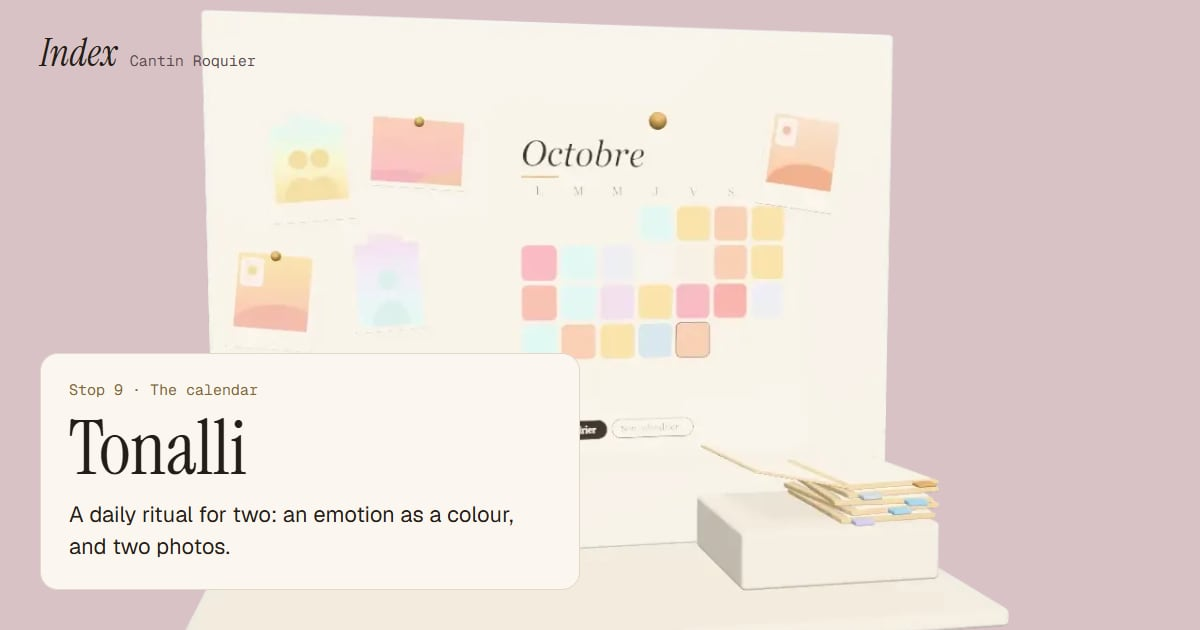
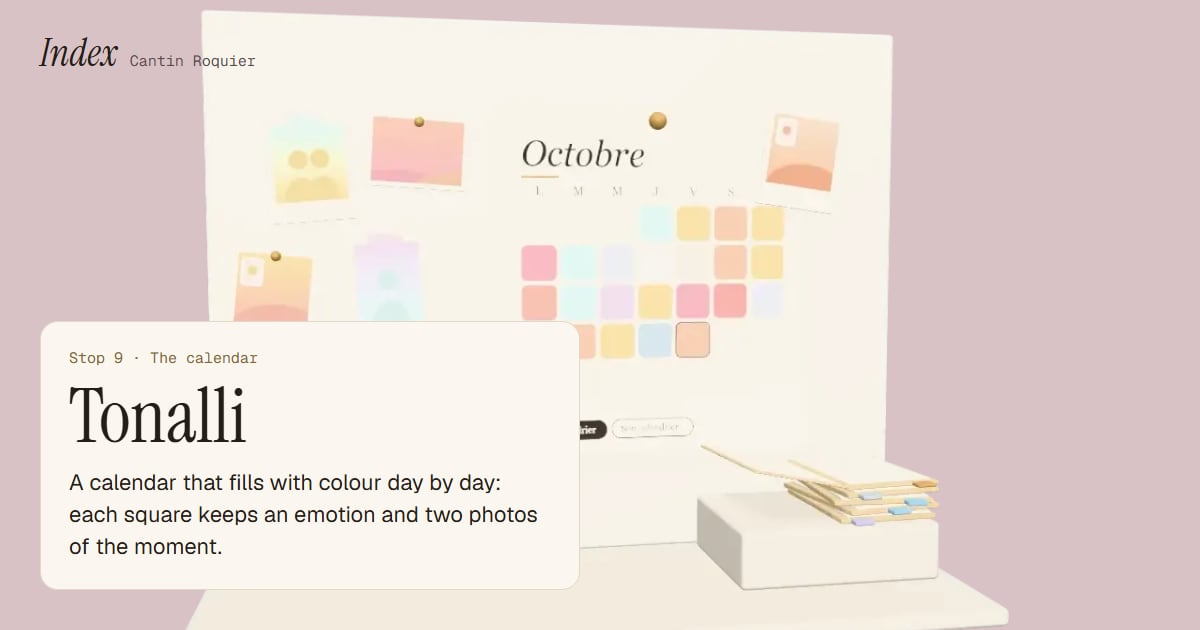
fix(portfolio): Tonalli présenté par son calendrier, plus « à deux »
« Un calendrier qui se colore jour après jour : chaque case garde une
émotion et deux photos du moment. » Le type devient « Application web ».
Ses aperçus de partage sont rephotographiés.

Changed region(s): [[0.0617, 0.6032, 0.4625, 0.9048], [0.0308, 0.5127, 0.2775, 0.573], [0.4317, 0.5127, 0.4933, 0.573]]

diff --git a/apps/portfolio/src/data/voyage.ts b/apps/portfolio/src/data/voyage.ts
@@ -121,8 +121,8 @@ export const STOP_TEXTS: Record<Lang, Record<string, StopText>> = {
     tonalli: {
       place: "Le calendrier",
       alt: "Le calendrier collé au mur : chaque jour d'octobre a sa couleur d'émotion, un jour manqué est hachuré, la case d'aujourd'hui se remplit d'une couleur après l'autre ; à gauche, les photos des journées affichées au mur ; à droite, sous le calendrier, une pile de dossiers ouverts sur un banc.",
-      kind: "Application web à deux · 2026 · En ligne",
-      pitch: "Un rituel à deux, chaque jour : une émotion en couleur et deux photos.",
+      kind: "Application web · 2026 · En ligne",
+      pitch: "Un calendrier qui se colore jour après jour : chaque case garde une émotion et deux photos du moment.",
       cta: "Ouvrir les dossiers",
     },
     index: {
@@ -196,8 +196,8 @@ export const STOP_TEXTS: Record<Lang, Record<string, StopText>> = {
     tonalli: {
       place: "The calendar",
       alt: "The calendar on the wall: each day of October has its emotion colour, a missed day is hatched, today's square fills with one colour after another; on the left, photos of the days pinned to the wall; on the right, below the calendar, a pile of open folders on a bench.",
-      kind: "Web app for two · 2026 · Live",
-      pitch: "A daily ritual for two: an emotion as a colour, and two photos.",
+      kind: "Web app · 2026 · Live",
+      pitch: "A calendar that fills with colour day by day: each square keeps an emotion and two photos of the moment.",
       cta: "Open the folders",
     },
     index: {

diff --git a/packages/projects/src/projects.ts b/packages/projects/src/projects.ts
@@ -151,7 +151,7 @@ export const PROJECTS = [
     app: "tonalli",
     host: "Vercel + Supabase",
     pitch: {
-      fr: "Un rituel quotidien à deux : une émotion en couleur et deux photos, puis le calendrier de l'autre se dévoile.",
+      fr: "Un calendrier qui se colore jour après jour : chaque case garde une émotion et deux photos du moment.",
     },
     stack: ["React", "Vite", "TypeScript", "Supabase", "PWA", "Web Push"],
     links: { demo: TONALLI_URL, code: code("tonalli") },
